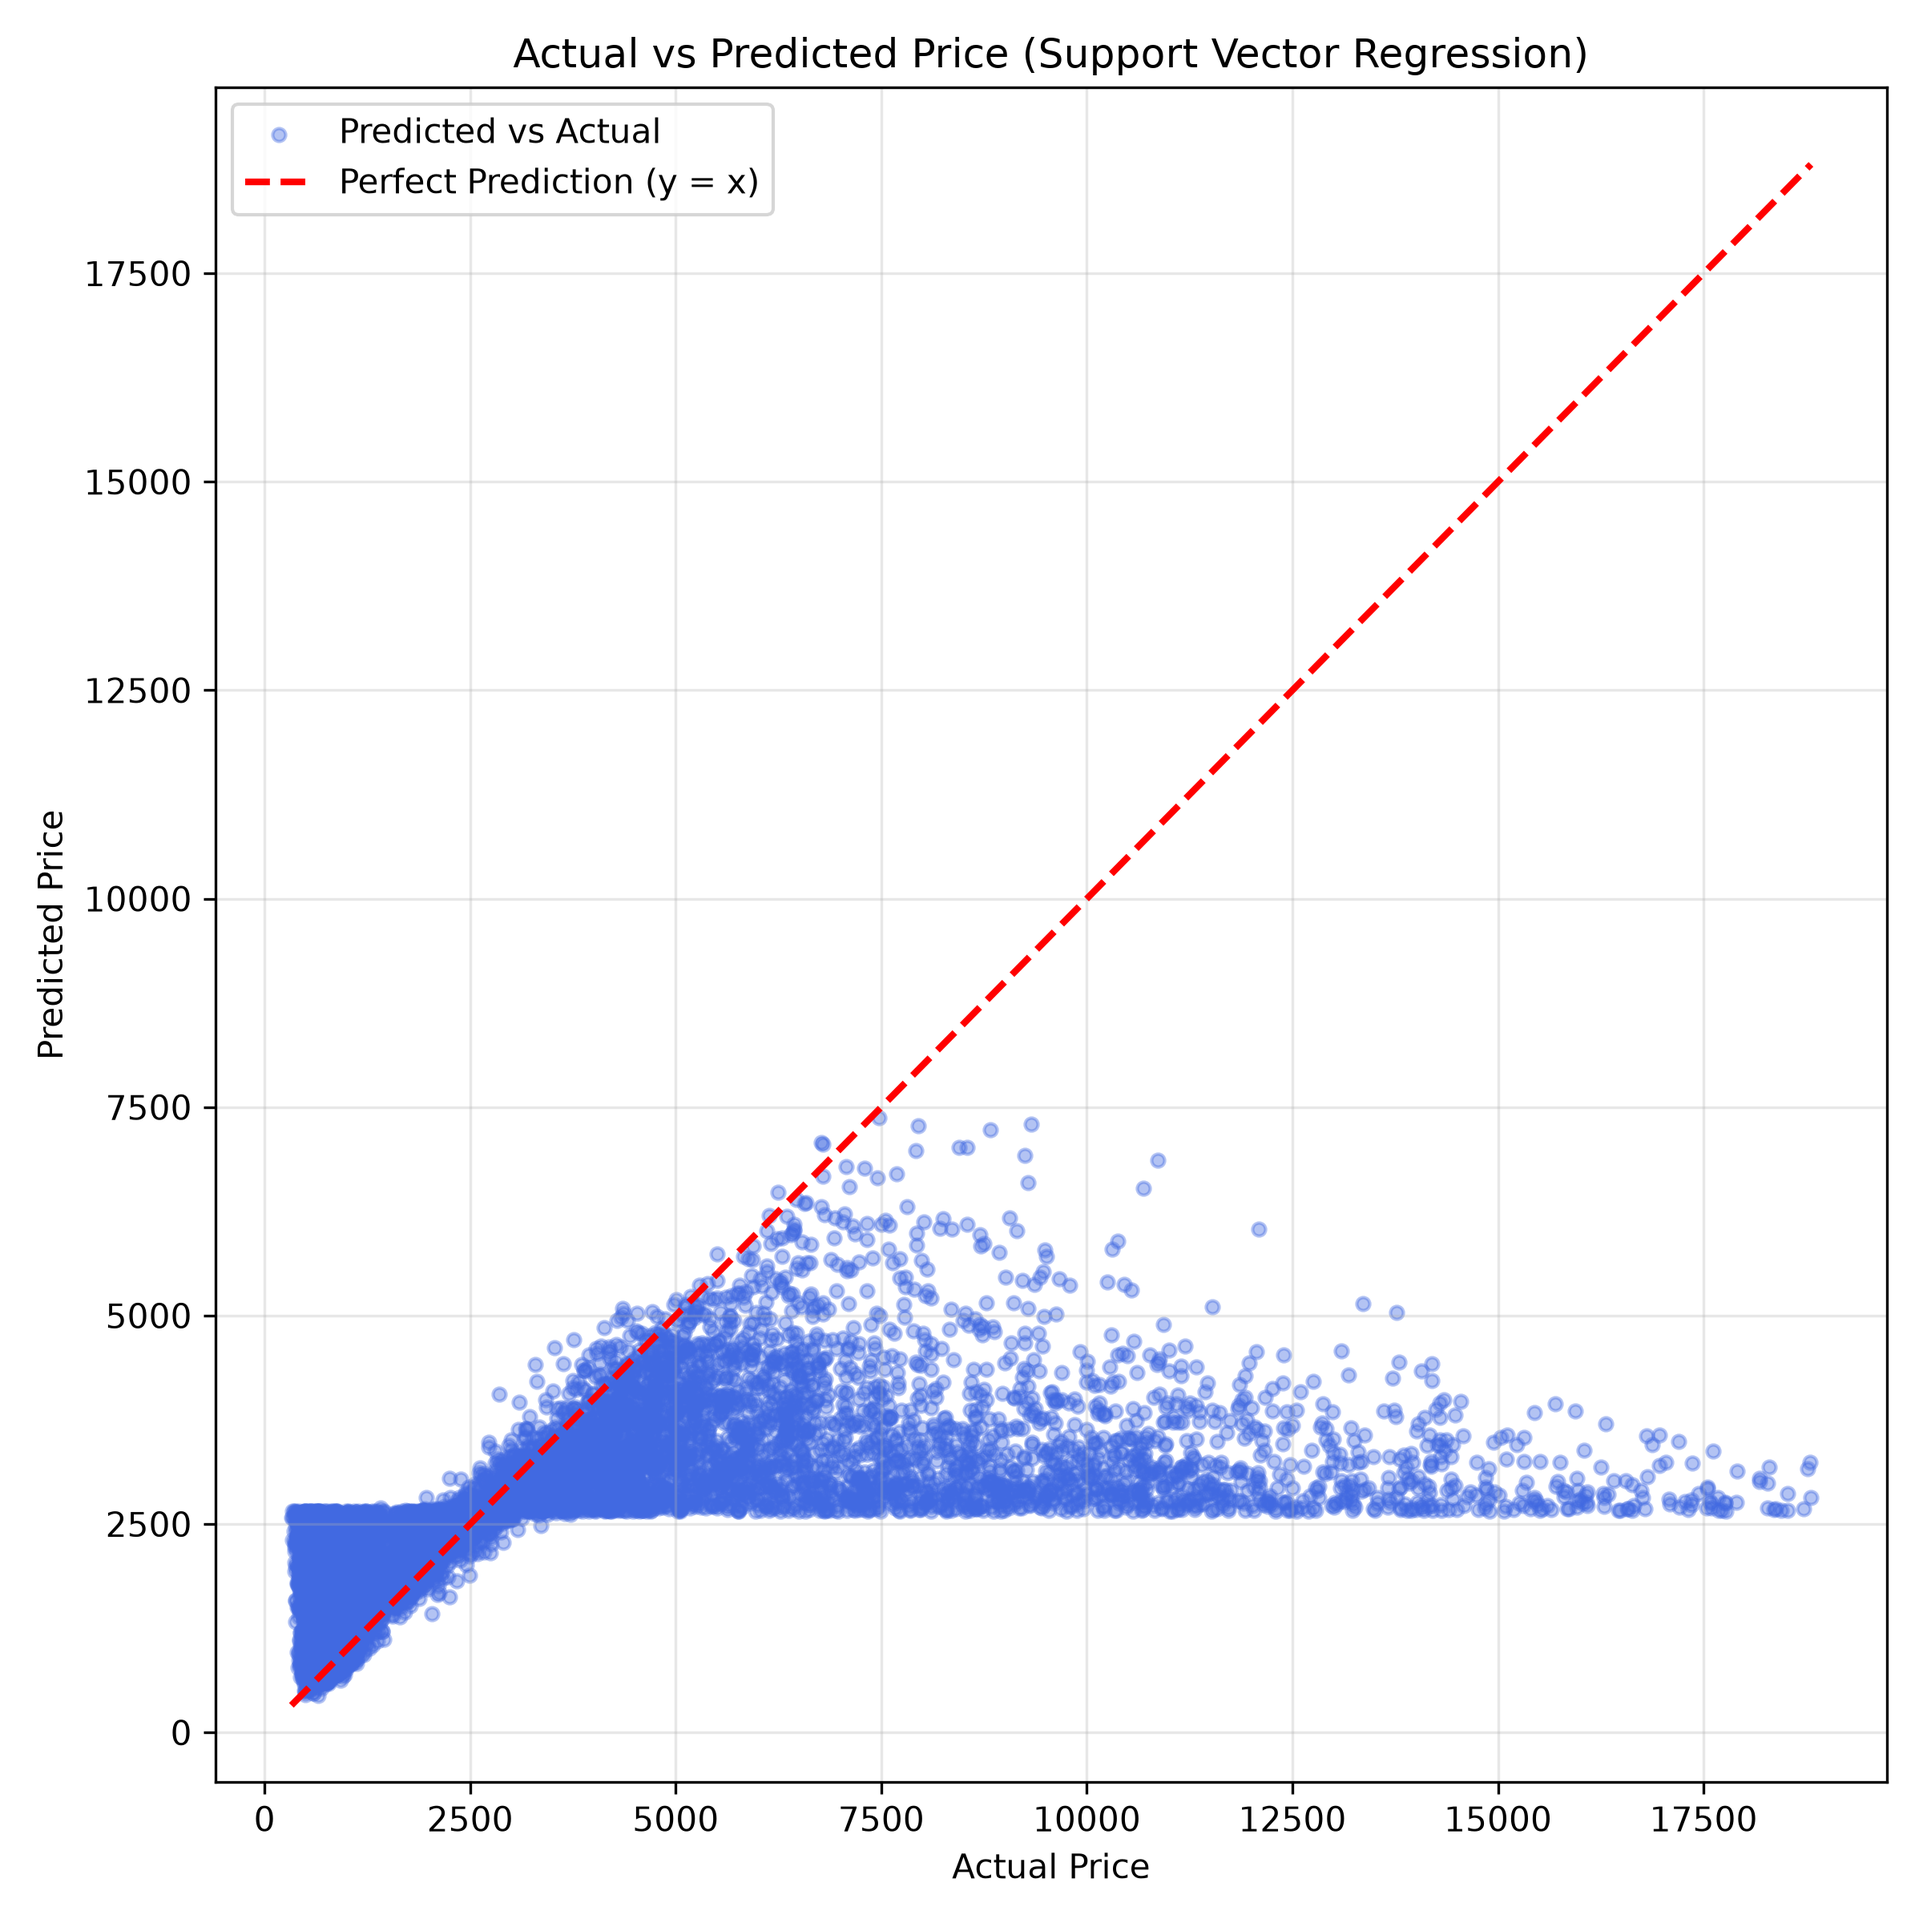
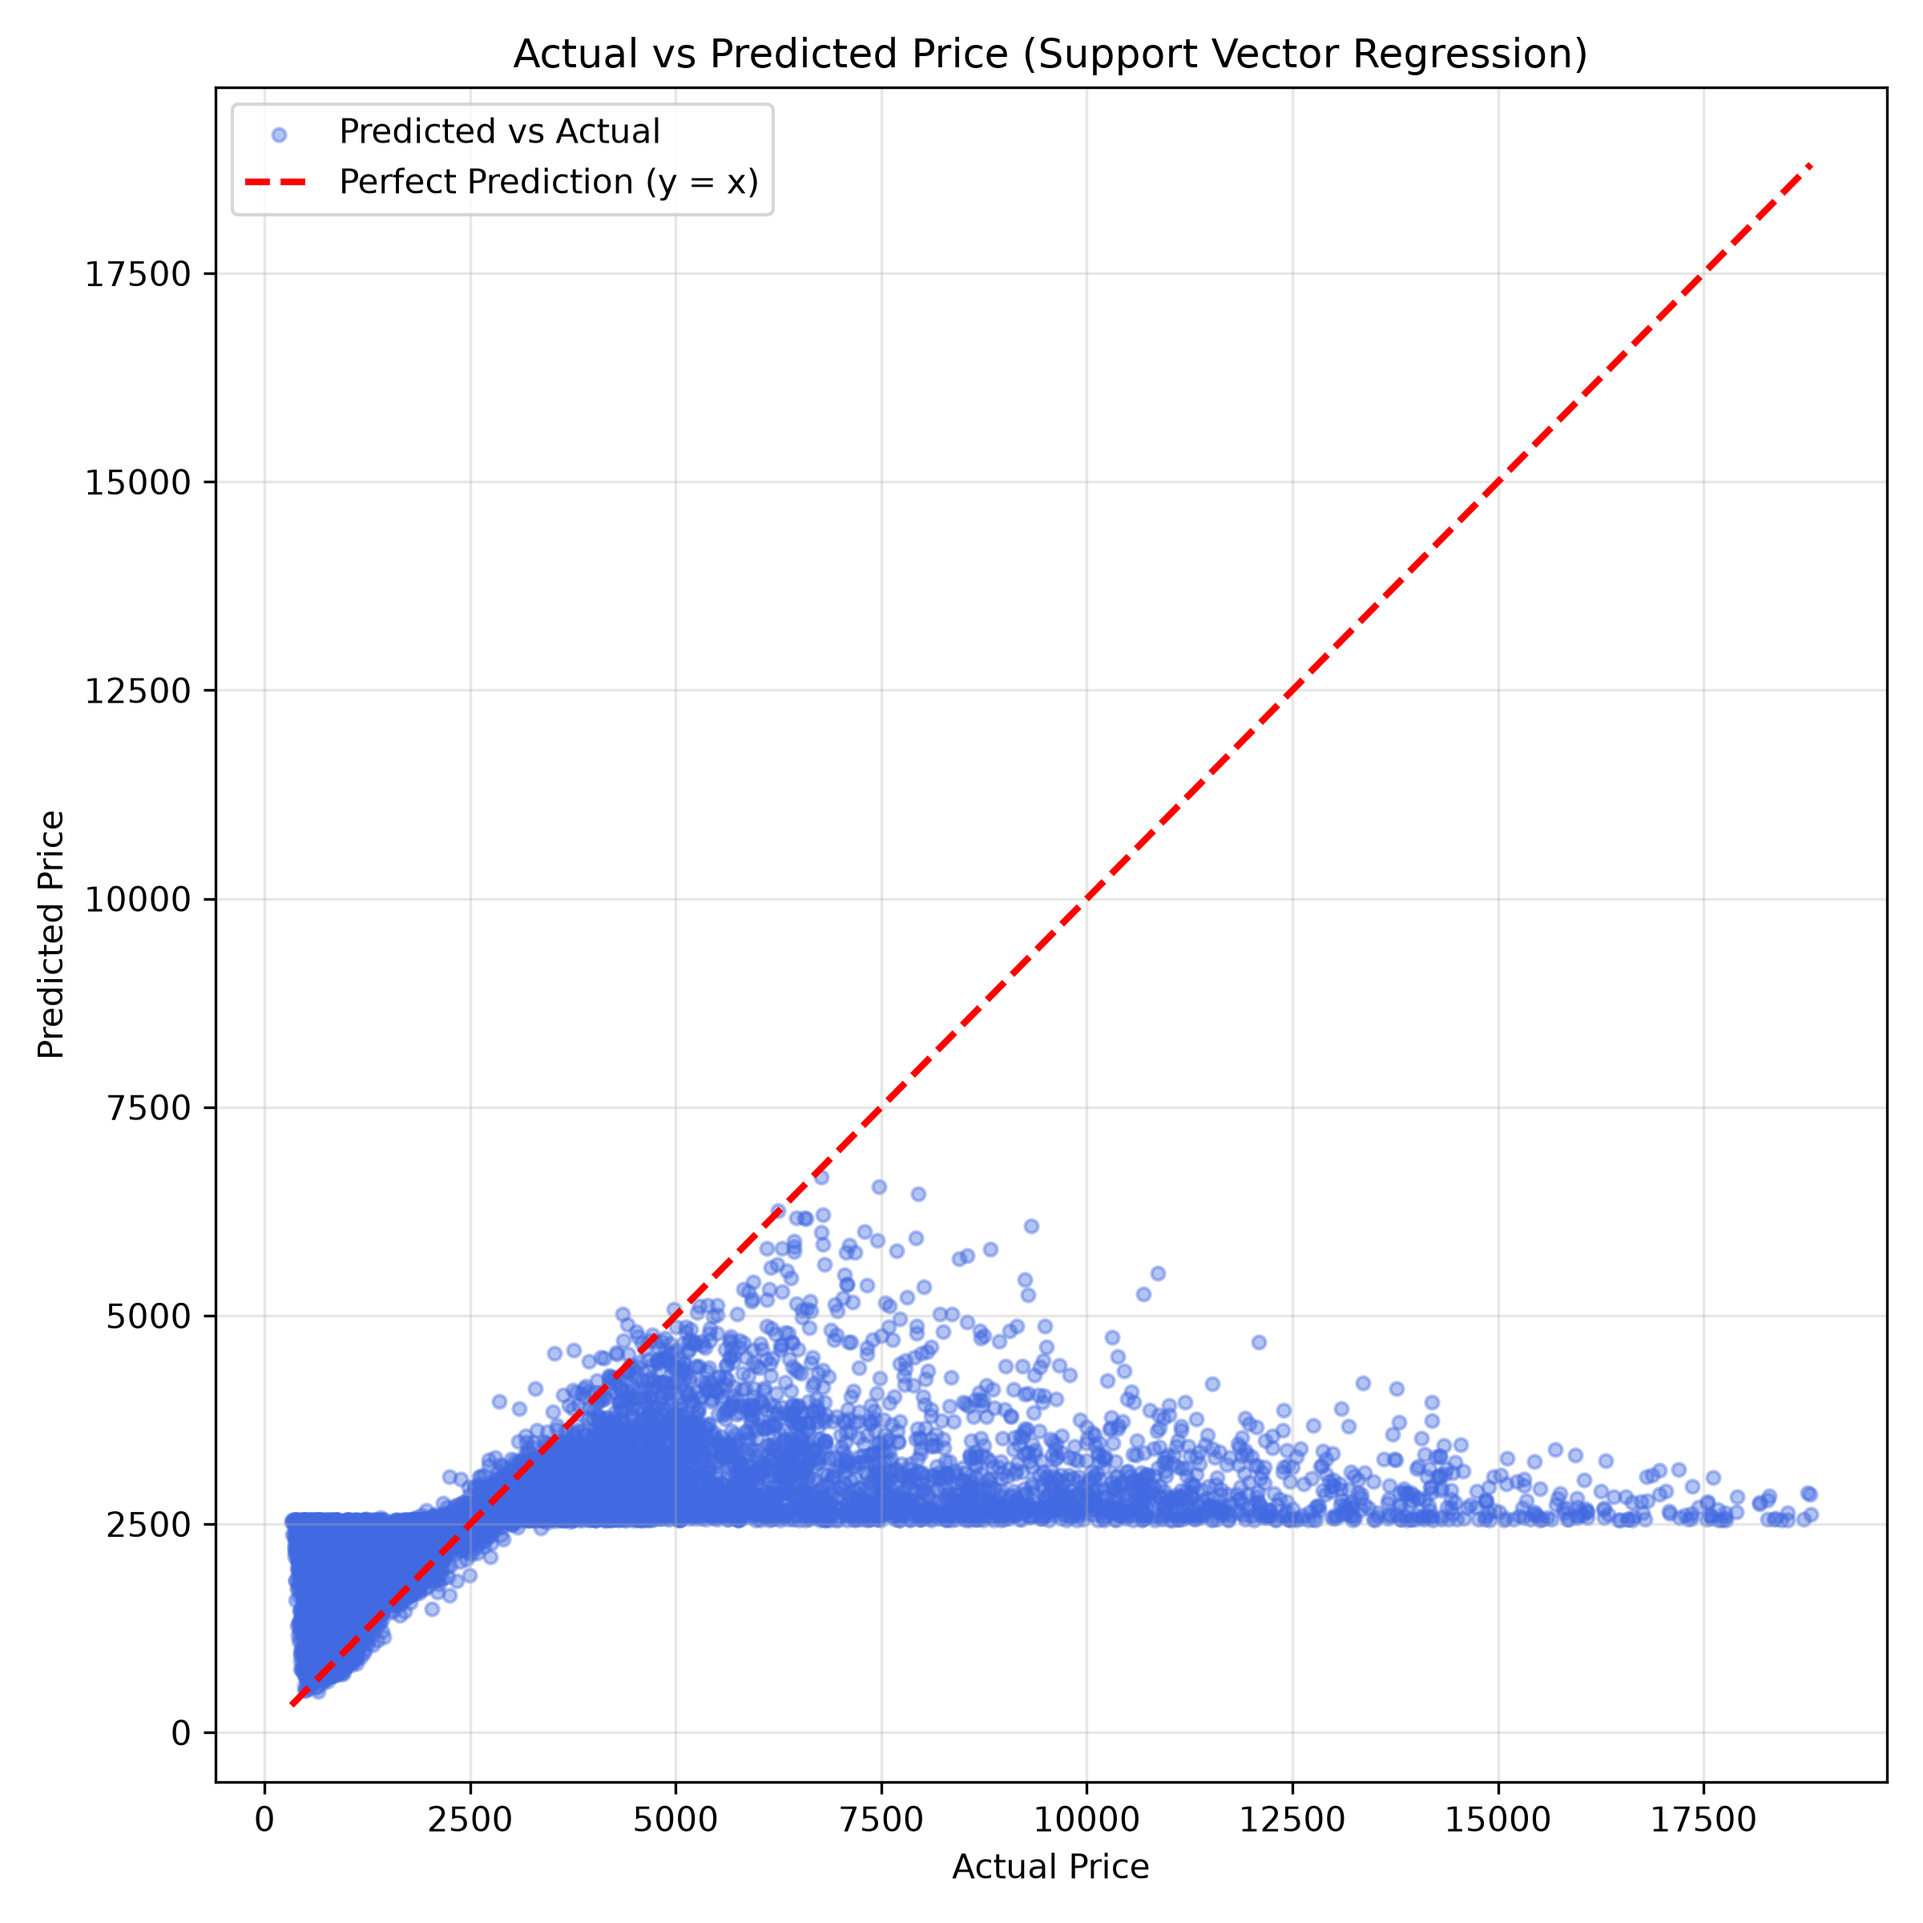
fix: funny svr graph

Changed region(s): [[0.2188, 0.5938, 0.9688, 0.8125], [0.1562, 0.7812, 0.2188, 0.8125], [0.2188, 0.8125, 0.25, 0.8438]]

diff --git a/src/full_models/full_support_vector_regression.py b/src/full_models/full_support_vector_regression.py
@@ -18,8 +18,8 @@ X_train, X_test, y_train, y_test = load_full_split()
 FINAL_PARAMS = {
     "kernel": "rbf",
     "C": 100,
-    "epsilon": 5.0,
-    "gamma": 2.0
+    "epsilon": 1.0,
+    "gamma": 3.0
 }
 
 final_model = SVR(**FINAL_PARAMS)
